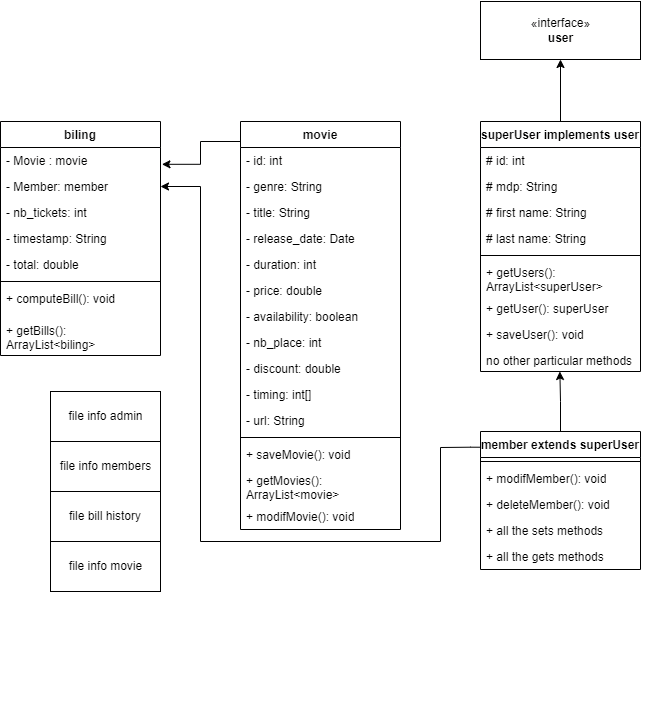
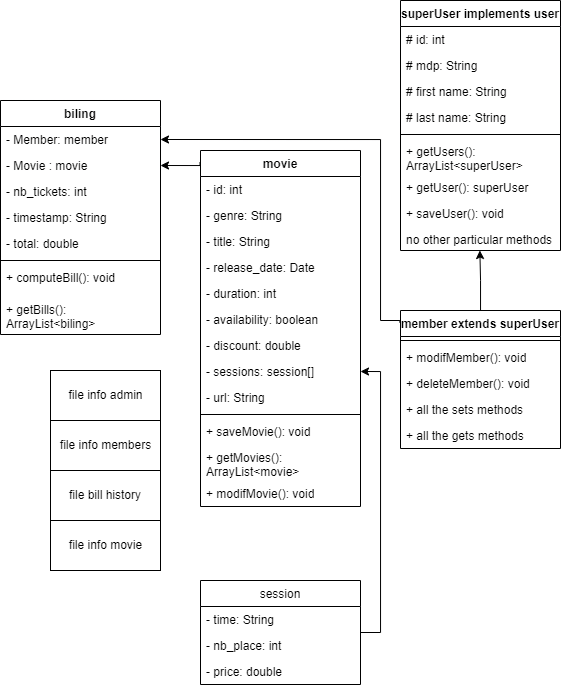
just removed the interface
removed the interface
fix the biling

diff --git a/movie_app/src/movie_app/biling.java b/movie_app/src/movie_app/biling.java
@@ -56,7 +56,7 @@ public class biling {
             for (String[] a : list)
                 outputFile.println(a[0] + ";" + a[1] + ";" + a[2] + ";" +a[3]+";" +a[4]+";"+a[5]); 
             
-            outputFile.println(list.length + ";" + theMember.first_name + ";" + theMember.last_name + ";" +theMovie.getTitle()+ ";" + total+";"+time_stamp); 
+            outputFile.println(list.length + ";" + theMember.first_name + ";" + theMember.last_name + ";" +theMovie.getTitle()+ ";" + total+";"+theMovie.getSessions()[session_index].getTime()+";"+time_stamp); 
                 
             outputFile.close();
         }
@@ -76,7 +76,7 @@ public class biling {
             String str_nb = inputFile.nextLine();
             int nb_line = Integer.parseInt(str_nb);
         
-            String[][] list = new String[nb_line][6];
+            String[][] list = new String[nb_line][7];
             for(int k=0;k<nb_line;k++)
             {
                String line = inputFile.nextLine();
